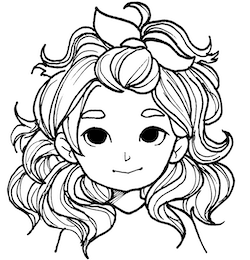
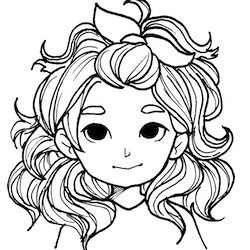
Replaced one image with a correctly sized one, and removed custom scrollbar styling

diff --git a/styles/body.css b/styles/body.css
@@ -3,7 +3,7 @@ html, body {
     overflow-x: hidden;
 }
 
-@media screen and (max-width: 768px) {
+/* @media screen and (max-width: 768px) {
     ::-webkit-scrollbar {
         -webkit-appearance: none;
         width: 10px;
@@ -12,4 +12,4 @@ html, body {
     ::-webkit-scrollbar-thumb {
         background-color: rgba(91, 109, 127, .5);
     }
-}
+} */
